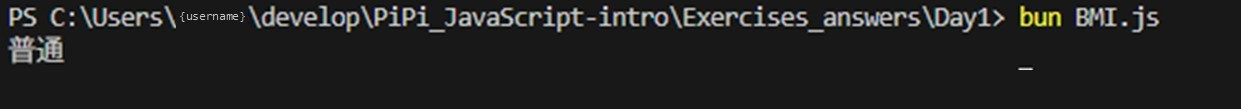
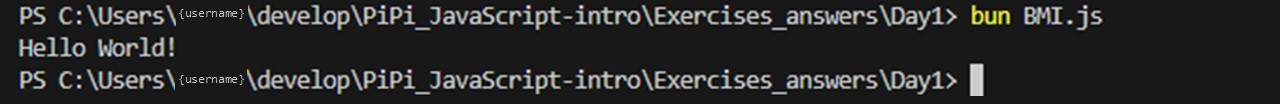
画像を変更

Changed region(s): [[0.0, 0.0288, 0.9492, 0.3173], [0.0, 0.6058, 0.8574, 0.9231], [0.0, 0.3173, 0.1531, 0.5769]]

diff --git a/Exercises_answers/Day1/BMI.js b/Exercises_answers/Day1/BMI.js
@@ -13,4 +13,4 @@ if(BMI < 18.5){
     result = "肥満"
 }
 
-console.log(result)
+console.log("Hello World!")
